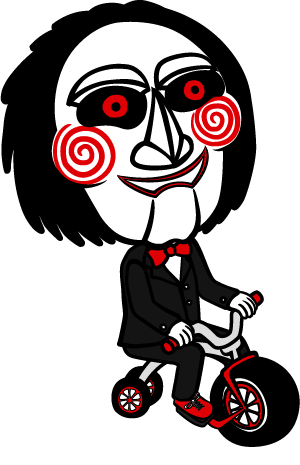
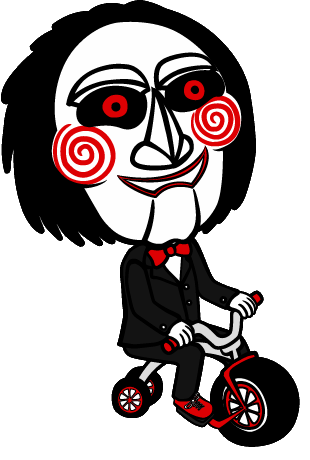
修正小屁孩動畫 & 背景陰影

diff --git a/Defined_css/layout_unauth.css b/Defined_css/layout_unauth.css
@@ -11,7 +11,7 @@
 
 #main_middle{
 	width: 100%;
-	background: url(../img/background_ext.png) repeat-x;
+	background: url(../img/background_shadow.png) repeat-x;
 	text-align:center
 }
 
